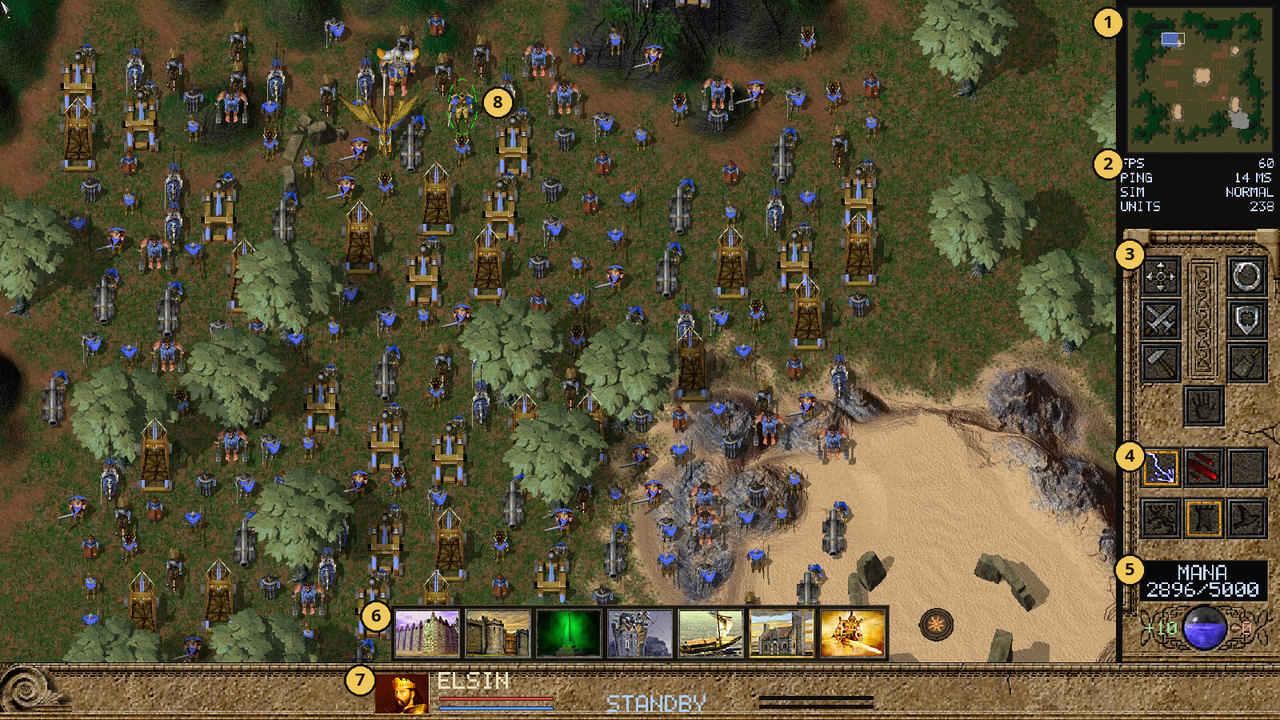
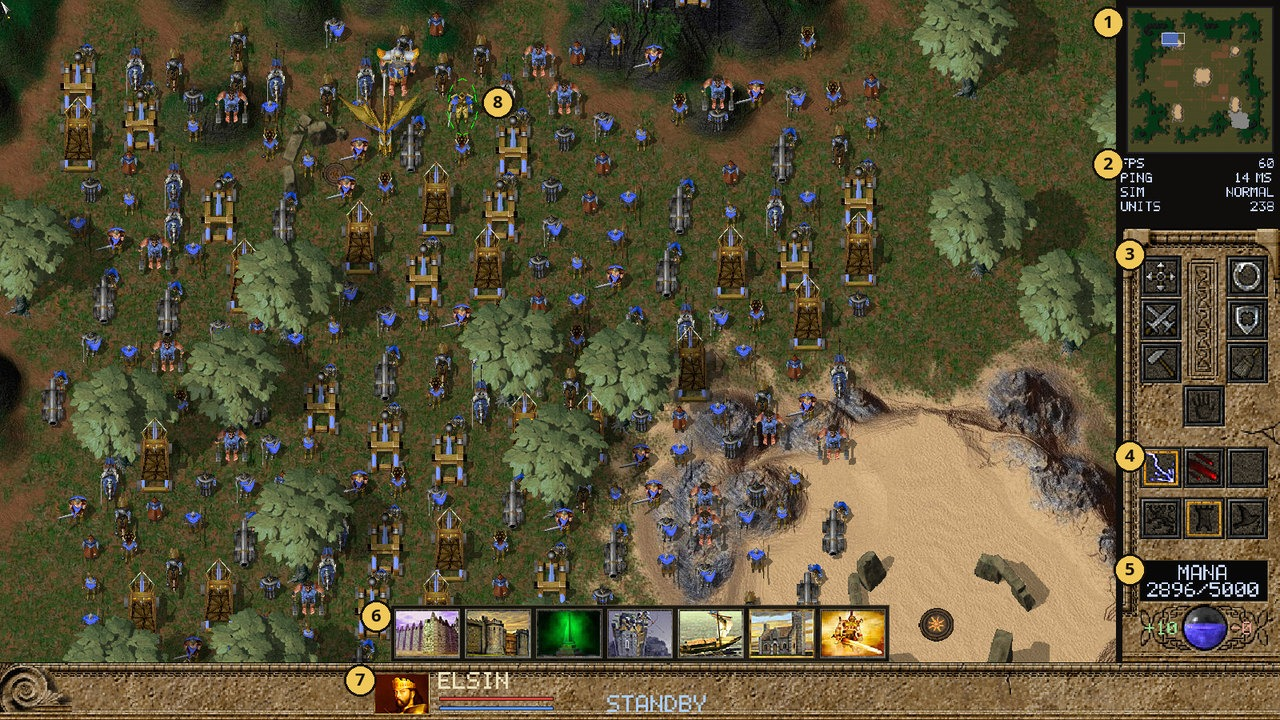
Info bar declutter: guide images and stale comment follow the hidden bars
The user guide's annotated HUD shot and selection-strip shot still showed
the conjure target's empty right-hand gauges, which no longer draw. The HUD
shot's gauges are covered with the same chrome one InfoPanel tile to the
left; the strip shot is cropped short of them (everything its caption names
stays). The Totals comment said a pool-less selection's mana bar "draws
empty"; it is hidden now.

Claude-Session: https://claude.ai/code/session_01FTvU2HZW2R6Y8F8ue5QD4q

diff --git a/tools/selportraits_test.cpp b/tools/selportraits_test.cpp
@@ -103,7 +103,7 @@ int main() try {
     check(t.hasMana && near(t.manaFrac(),1100.f/2000),"mana only over the casters, not diluted by the knights");
     t=sp::total({{40,100,0,0},{100,100,0,0}});
     check(!t.hasMana && near(t.manaFrac(),0) && near(t.hpFrac(),0.7f),"no pool anywhere: empty mana bar");
-    check(near(sp::total({}).hpFrac(),0) && !sp::total({}).hasMana,"nothing selected: empty bars");
+    check(near(sp::total({}).hpFrac(),0) && !sp::total({}).hasMana,"no units: no totals, no mana");
     // The selection is a squad only when it is all of one, or its recall set (no builders).
     using SB=std::vector<std::pair<int,bool>>;
     check(sp::selectionSquad(SB{{3,false},{3,false},{3,false}},{})==3,"the whole group");

diff --git a/src/client/selportraits.h b/src/client/selportraits.h
@@ -122,7 +122,7 @@ inline Rect slot(const Layout& L, int i, Rect primary, float gap) {
 // front unit's. HP is sum(hp) / sum(maxHp) over the live selected units; mana is the
 // same over only the units that HAVE a pool (maxMana > 0), so a squad of knights with
 // two priests shows the priests' mana rather than a sliver of it. No pool anywhere:
-// hasMana is false and the bar draws empty, as it does for a single unit without one.
+// hasMana is false and the bar is hidden, as it is for a single unit without one.
 struct Vitals { float hp = 0, maxHp = 0, mana = 0, maxMana = 0; };
 struct Totals {
     float hp = 0, maxHp = 0, mana = 0, maxMana = 0;
